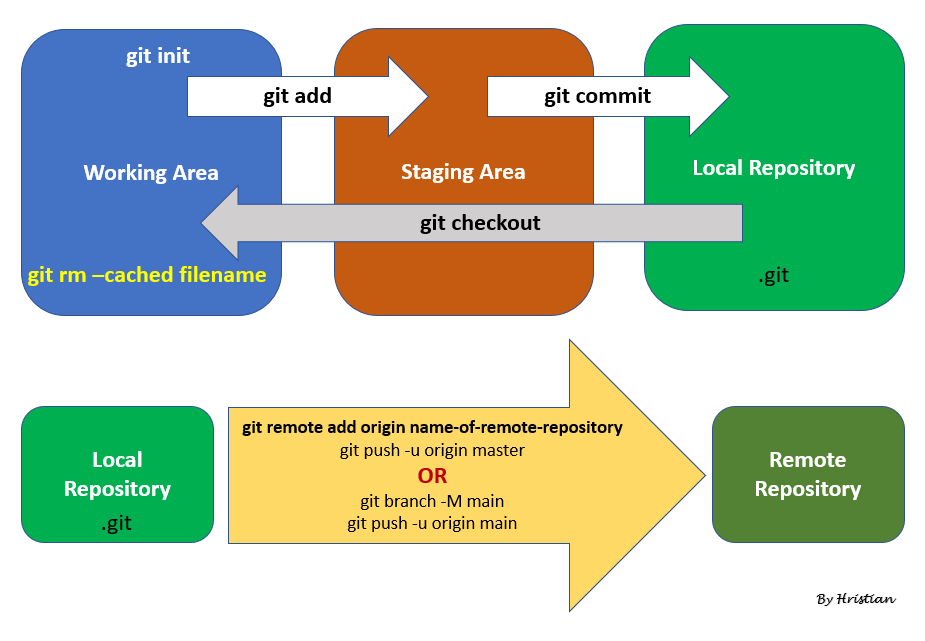
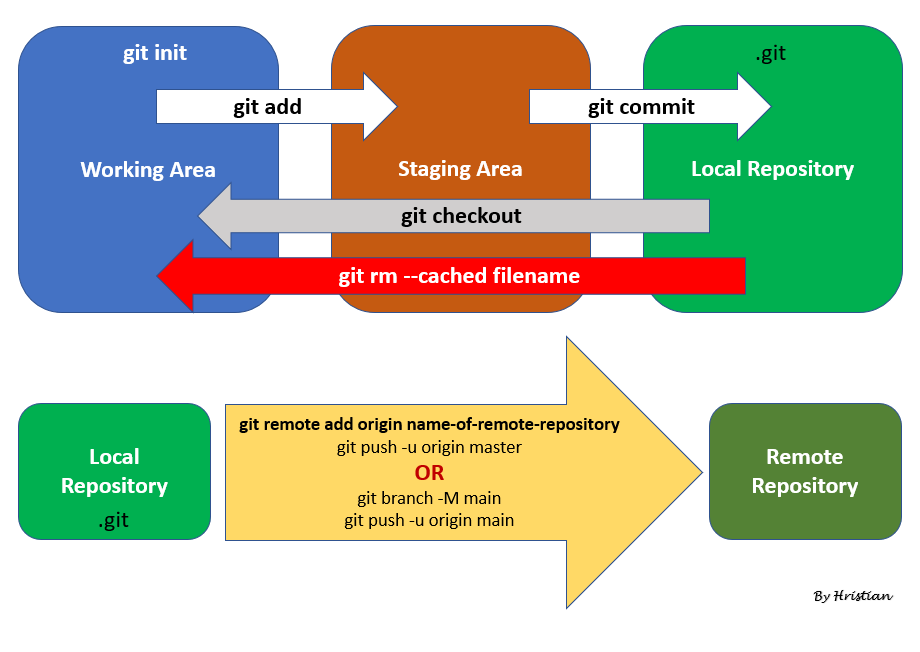
Update README.md and png

diff --git a/README.md b/README.md
@@ -12,7 +12,7 @@ git add filename # to add each file separately to the Staging Area. OR...
 
 git add . # to add all files to the Staging Area
 
-git rm -cached filename # to remove file from the index completely
+git rm --cached filename # removes file from the Staging Area and from the Local Repository. It will remain only in the Working Area.
 
 git commit -m "message" # commit all the files in the Staging Area to the Local Repository
 
